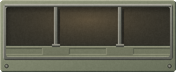
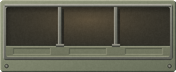
Pods masters pass 138: Home's open bay to UI/UX's crate places (bay x 8, 64, 120, pitch 56): posts at 58-61 and 114-117, places under the crates, lamps plain at 26+56k; the shut bay unchanged

diff --git a/art/station-masters/pods/tools/homebayrecut138.py b/art/station-masters/pods/tools/homebayrecut138.py
@@ -1,0 +1,102 @@
+"""Pass 138: Home's bay recut to UI/UX's crate places (bay crate rects at x 8, 64, 120, pitch 56, crateAt [8, 16]), 0 MXN, no calls. Pass 137's drawing (tools/homebayrecut.py) with the posts and places moved:
+1. home-bay-open-176x72, home-bay-shut-176x72: the module's bay ground at its exact region (home.json regions.cargo.bay [112, 8, 176, 72], screen (800, 56, 176, 72)), no case in it. The column's sibling of the signed chamber (home-chamber-empty-72x72): a sage plate with screws, a grey metal framed recess, the warm dim interior, and a sage moulded floor with three crate places under UI/UX's crate rects (bay x 8, 64, 120; y 16 to 56, so the feet stand on the floor's line at y 56), two metal posts between the places (shafts at bay x 58-61 and 114-117, each post and its foot within 56-63 and 112-119, seen between the crates), the plate plain under the crates where the sitting lamps go (bay (26 + 56k, 60, 12, 12)) and plain behind the waiting mark (bay (76, 24, 24, 24)). The shut bay is the same plate and frame, a sage roller shutter over the recess with a sand pull, registered pixel for pixel. Drawn at 4x and reduced with Lanczos, a fine seeded matte grain (about +-1.5 L) laid over at 1x.
+2. crate-sitting-48x40: the signed crate-sitting-256x176 (963f4eab), reduced uniformly (premultiplied Lanczos, never enlarged) to 46 px wide, 1 px clear each side, its feet on the box's bottom row as the walk crate home-crate-48x40; nothing retouched (the plate reads at 1x as reduced).
+python3 -I tools/homebayrecut138.py -> slices/home-bay-{open,shut}-176x72.png and their manifest entries"""
+import os, json, hashlib
+import numpy as np
+from PIL import Image, ImageDraw, ImageFilter
+ROOT = os.path.dirname(os.path.dirname(os.path.abspath(__file__))); os.chdir(ROOT)
+exec(open("tools/lightfit.py").read(), globals())
+Z = 4; W, H = 176, 72
+
+def grad(c0, c1, w, h, axis="xy"):
+    """a smooth ramp from c0 at the top left to c1 at the bottom right (the light from the top left)"""
+    yy, xx = np.mgrid[0:h, 0:w].astype(float); t = (xx / max(w - 1, 1) * 0.45 + yy / max(h - 1, 1) * 0.55) if axis == "xy" else (yy / max(h - 1, 1))
+    return np.array(c0, float)[None, None] * (1 - t[..., None]) + np.array(c1, float)[None, None] * t[..., None]
+
+def rr(mask_w, mask_h, box, r):
+    m = Image.new("L", (mask_w, mask_h), 0); ImageDraw.Draw(m).rounded_rectangle([box[0] * Z, box[1] * Z, box[2] * Z - 1, box[3] * Z - 1], radius=r * Z, fill=255); return np.asarray(m).astype(float) / 255.0
+
+def put(img, mask, col):
+    col = np.asarray(col, float)
+    if col.ndim == 1: col = col[None, None]
+    img[...] = img * (1 - mask[..., None]) + col * mask[..., None]
+
+def band(box):
+    m = np.zeros((H * Z, W * Z)); m[box[1] * Z:box[3] * Z, box[0] * Z:box[2] * Z] = 1; return m
+
+def base_plate():
+    """the sage plate, its bevel, the metal frame of the recess, the screws: shared by open and shut so they register"""
+    img = grad((150, 154, 128), (104, 110, 90), W * Z, H * Z); alpha = rr(W * Z, H * Z, (0, 0, 176, 72), 3)
+    put(img, band((0, 0, 176, 1)) * alpha, (178, 179, 154)); put(img, band((0, 0, 1, 72)) * alpha, (170, 172, 148))      # lit top and left edge
+    put(img, band((0, 71, 176, 72)) * alpha, (62, 70, 58)); put(img, band((175, 0, 176, 72)) * alpha, (70, 78, 66))      # shade at the bottom and right
+    fo = rr(W * Z, H * Z, (3, 4, 173, 60), 3); fi = rr(W * Z, H * Z, (6, 7, 170, 57), 2)
+    put(img, fo, grad((146, 145, 134), (88, 90, 82), W * Z, H * Z, "y"))                                                  # the grey metal frame, as the chamber's window frame
+    put(img, fo * band((3, 4, 173, 5)), (176, 174, 162)); put(img, fo * band((3, 4, 4, 60)), (160, 158, 146))              # its lit outer lip
+    put(img, fo * band((3, 59, 173, 60)), (60, 62, 56)); put(img, fo * band((172, 4, 173, 60)), (66, 68, 62))
+    put(img, fo * band((5, 6, 171, 7)) * (1 - fi), (72, 74, 68))                                                          # the inner edge of the frame, in shade
+    for cx in (6.5, 169.5):                                                                                               # two screws on the plate below the frame, clear of the lamps
+        m = Image.new("L", (W * Z, H * Z), 0); d = ImageDraw.Draw(m); d.ellipse([(cx - 2) * Z, (66 - 2) * Z, (cx + 2) * Z, (66 + 2) * Z], fill=255); sm = np.asarray(m) / 255.0
+        put(img, sm, (64, 66, 58)); m2 = Image.new("L", (W * Z, H * Z), 0); ImageDraw.Draw(m2).ellipse([(cx - 1.2) * Z, (66 - 1.2) * Z, (cx + 1.0) * Z, (66 + 1.0) * Z], fill=255)
+        put(img, np.asarray(m2) / 255.0, (122, 122, 112)); put(img, np.asarray(m2) / 255.0 * band((0, 63, 176, 66)) * band((0, 0, int(cx), 72)), (160, 158, 146))
+    return img, alpha, fi
+
+def interior(img, fi):
+    """the open bay: the warm dim back wall, the posts, the sage floor and its three places"""
+    yy, xx = np.mgrid[0:H * Z, 0:W * Z].astype(float) / Z
+    wall = np.array((52, 50, 42), float)[None, None] + np.array((40, 30, 18), float)[None, None] * np.clip(1 - np.hypot((xx - 88) / 95, (yy - 20) / 30), 0, 1)[..., None] ** 1.5   # a warm fall of light from the top centre, never a glow
+    wall = wall * (0.72 + 0.28 * np.clip((yy - 7) / 6, 0, 1))[..., None]                                              # the shade under the frame's top lip
+    wall = wall * (0.80 + 0.20 * np.clip((xx - 6) / 5, 0, 1))[..., None]                                              # and inside its left side (the light is top left)
+    put(img, fi * band((6, 7, 170, 46)), wall)
+    floor = grad((134, 136, 112), (104, 108, 88), W * Z, H * Z, "y"); fl = fi * band((6, 45, 170, 57))
+    put(img, fl, floor); put(img, fi * band((6, 45, 170, 46)), (46, 48, 40))                                          # the join of wall and floor
+    put(img, fi * band((6, 46, 170, 47)), (148, 150, 126))                                                            # the floor's lit back edge
+    for cx in (32, 88, 144):                                                                                           # the three places: shallow moulded pads under the crates, lit from the top left
+        x0, x1 = cx - 19, cx + 19
+        put(img, band((x0, 48, x1, 55)) * fi, (114, 118, 96)); put(img, band((x0, 48, x1, 49)) * fi, (84, 88, 72)); put(img, band((x0, 48, x0 + 1, 55)) * fi, (90, 94, 78))
+        put(img, band((x0, 54, x1, 55)) * fi, (140, 142, 118)); put(img, band((x1 - 1, 48, x1, 55)) * fi, (132, 134, 112))
+    for px in (58, 114):                                                                                               # the posts between the places, the frame's metal
+        put(img, band((px, 7, px + 4, 46)), grad((132, 131, 120), (84, 86, 78), W * Z, H * Z, "y")); put(img, band((px, 7, px + 1, 46)), (160, 158, 146)); put(img, band((px + 3, 7, px + 4, 46)), (58, 60, 54))
+        put(img, band((px - 2, 44, px + 6, 47)), (112, 112, 102)); put(img, band((px - 2, 44, px + 6, 45)), (150, 148, 136)); put(img, band((px - 2, 46, px + 6, 47)), (64, 66, 58))
+        put(img, band((px + 4, 9, px + 6, 44)) * fi, (40, 38, 32))                                                    # the post's shadow on the wall, to the right
+    put(img, fi * band((6, 56, 170, 57)), (150, 152, 128))                                                            # the floor's front edge, lit
+
+def shutter(img, fi):
+    """the shut bay: a sage roller shutter over the recess, slats every 5 px, a heavier bottom bar with a sand pull"""
+    slat = grad((156, 160, 134), (112, 118, 96), W * Z, H * Z, "xy"); put(img, fi * band((6, 7, 170, 57)), slat)
+    for y in range(7, 52, 5):
+        put(img, fi * band((6, y, 170, y + 1)), (172, 174, 150)); put(img, fi * band((6, y + 4, 170, y + 5)), (78, 84, 70))
+    put(img, fi * band((6, 7, 170, 9)) * 0.55, (40, 42, 36))                                                          # the frame's lip shades the top slat
+    put(img, fi * band((6, 52, 170, 57)), grad((140, 144, 120), (100, 106, 86), W * Z, H * Z, "y")); put(img, fi * band((6, 52, 170, 53)), (176, 176, 152)); put(img, fi * band((6, 56, 170, 57)), (70, 76, 64))
+    m = rr(W * Z, H * Z, (78, 53, 98, 56), 1); put(img, m, (198, 182, 142)); put(img, m * band((78, 53, 98, 54)), (226, 214, 180)); put(img, m * band((78, 55, 98, 56)), (138, 124, 92))
+
+def grain(n):
+    """a fine matte grain, about +-1.5 in light, seeded and softened 0.6 px (a tiled high-pass of the sheet was tried and showed its repeat at 1x)"""
+    rng = np.random.default_rng(n); g = rng.normal(0, 1.0, (H, W)); g = np.asarray(Image.fromarray(np.clip(g * 40 + 128, 0, 255).astype(np.uint8)).filter(ImageFilter.GaussianBlur(0.6))).astype(float)
+    g = (g - g.mean()) / max(g.std(), 1e-6) * 1.2; return np.clip(g, -3, 3)
+
+def reduce(img, alpha):
+    pm = np.dstack([img * alpha[..., None], alpha * 255]).clip(0, 255).astype(np.uint8); r = np.asarray(Image.fromarray(pm, "RGBA").resize((W, H), Image.LANCZOS)).astype(float)
+    al = r[..., 3:] / 255.0; return np.dstack([np.where(al > 0.004, r[..., :3] / np.maximum(al, 0.004), 0), r[..., 3:]]).clip(0, 255)
+
+man = json.load(open("slices/manifest.json")); outs = {}
+def save(n, arr, made, src, note):
+    t = Image.fromarray(np.rint(arr).clip(0, 255).astype(np.uint8), "RGBA"); t.save(f"slices/{n}.png", optimize=True); outs[n] = t
+    prev = man.get(n, {}); e = {"size": list(t.size), "rect": None, "src": src, "made": made + " (pass 138)", "sha256": hashlib.sha256(open(f"slices/{n}.png", "rb").read()).hexdigest(), "status": "signed", "signed_in": "art director, hand recut (pass 138)", "status_note": note}
+    if prev.get("sha256"): e["replaces"] = f"{n} sha256 {prev['sha256'][:12]} ({prev.get('signed_in', '')}): {prev.get('made', '')[:120]}"
+    man[n] = e
+G = grain(137)
+for state in ("open", "shut"):
+    img, alpha, fi = base_plate(); (interior if state == "open" else shutter)(img, fi); t = reduce(img, alpha); t[..., :3] = (t[..., :3] + G[..., None]).clip(0, 255)
+    outs[f"home-bay-{state}-176x72"] = t
+L = {}
+for state in ("open", "shut"):
+    t = outs[f"home-bay-{state}-176x72"]; op = t[..., 3] > 128; L[state] = (float(lstar(t[..., :3])[op].mean()), float((t[..., 0] - t[..., 2])[op].mean()), float((lstar(t[..., :3])[op] > 70).mean() * 100))
+SRCB = "by hand, no source picture: drawn at 4x and reduced; colours from the signed home-chamber-empty-72x72 (its plate, window frame and warm interior)"
+save("home-bay-open-176x72", outs["home-bay-open-176x72"], "Home's Cargo bay, open and empty: the module's bay ground at its region (home.json cargo.bay, screen 800,56,176,72), no case: a sage plate with two screws, a grey metal framed recess (3,4)-(173,60), the warm dim back wall, two metal posts between the places (shafts x 58-61 and 114-117), a sage moulded floor (y 45-57) with three shallow places under the crate rects (x 8, 64, 120, 48x40, pitch 56, feet on y 56); the plate plain under the crates for the sitting lamps (26+56k, 60) and behind the waiting mark (76, 24)", SRCB,
+     f"signed (art director) at 1x, opaque pixels: L* {L['open'][0]:.1f}, mean R-B {L['open'][1]:.1f}, {L['open'][2]:.1f} percent above L* 70; the column's sibling of the chamber, the walk and sitting crates stand on its floor line")
+save("home-bay-shut-176x72", outs["home-bay-shut-176x72"], "Home's Cargo bay, shut (away, no sitting crate): the same plate, frame and screws as home-bay-open-176x72, registered pixel for pixel, a sage roller shutter over the recess (slats every 5 px, the light from the top left) with a sand pull at x 78-98", SRCB,
+     f"signed (art director) at 1x, opaque pixels: L* {L['shut'][0]:.1f}, mean R-B {L['shut'][1]:.1f}, {L['shut'][2]:.1f} percent above L* 70; registers with the open bay outside the recess")
+
+json.dump(man, open("slices/manifest.json", "w"), indent=1)
+print("L", L)

diff --git a/art/station-masters/pods/README.md b/art/station-masters/pods/README.md
@@ -819,6 +819,13 @@ The art director, 2026-10-11 14:21 (America/Mexico_City), on the Station lead's 
 
 The art director, 2026-10-11 14:19 (America/Mexico_City), for the architect's unplaced-masters refresh (r2, section 4). [`tools/homebayrecut.py`](tools/homebayrecut.py), 0 MXN.
 - `home-bay-open-176x72` and `home-bay-shut-176x72` are recut as the module's bay ground at its exact region (home.json `regions.cargo.bay` [112, 8, 176, 72], screen (800, 56, 176, 72)). No case is painted in them: the 1f7d4a83 cut painted one case at bay x 58-117, where the code draws up to three 48x40 crates at bay x 0, 64 and 128. The open bay is the chamber's sibling: a sage plate with two screws, a grey metal framed recess (3, 4)-(173, 60), a warm dim back wall, metal posts at x 54 and 118 (seen between the crates), and a sage floor (y 45-57) with three shallow places under the crate rects, feet on y 56. The plate is plain under the crates for the sitting lamps (18 + 64k, 60, 12, 12) and behind the waiting mark (76, 24, 24, 24). The shut bay is the same plate and frame with a sage roller shutter and a sand pull; outside the recess it matches the open bay within 3 levels (the Lanczos fringe). Hashes (sha256 prefix): open 5000a0120652, shut 70a31efda542. The old files were b3c0a5d1e26b and 9564c9284b84.
+- **Pass 138 (`tools/homebayrecut138.py`).** `home-bay-open-176x72` follows UI/UX's crate places: crate rects at bay x 8, 64 and 120 (pitch 56, crateAt [8, 16]).
+  - The post shafts are at x 58–61 and 114–117, each post and its foot within 56–63 and 112–119. The floor places are centred under the crates at 32, 88 and 144.
+  - The plate is plain under the sitting lamps at 26 + 56k.
+  - Each crate's ink is 3 px clear of the frame and of each post.
+  - The shut bay has no posts, so it is unchanged, byte for byte.
+  - Proof: `marks/home-bay-138-proof-1x.png` and `-3x`, showing the bay with 0 to 3 crates, walk and sitting.
+  - Hashes (sha256 prefix): open 261fcea83079 (was 5000a0120652); shut 70a31efda542, unchanged.
 - `crate-sitting-48x40` is new: the signed `crate-sitting-256x176`, reduced uniformly to 46x29, with 1 px clear at each side and its feet on row 39, as `home-crate-48x40`. Nothing is retouched; the brass plate reduces to a 10x7 mark that reads at 1x. Hash e9af94a27c29. `crate-sitting-80x56` is withdrawn, because no region is 80x56; the file stays as the record.
 - At 1x on opaque pixels: open L* 37.4, mean R-B 15.2, 1.8 percent above L* 70; shut 52.7, 16.1, 2.3; crate 48x40 49.7, 14.3, 3.2 (inside the crate band 48.0 +-4, 13.5 +-8).
 - Proof: [`marks/home-bay-recut-proof-1x.png`](marks/home-bay-recut-proof-1x.png) (and 4x) shows the Cargo module with 0, 1, 2 and 3 walk crates, two walk crates and a sitting crate with its lamp, a sitting crate alone, and the shut bay.
